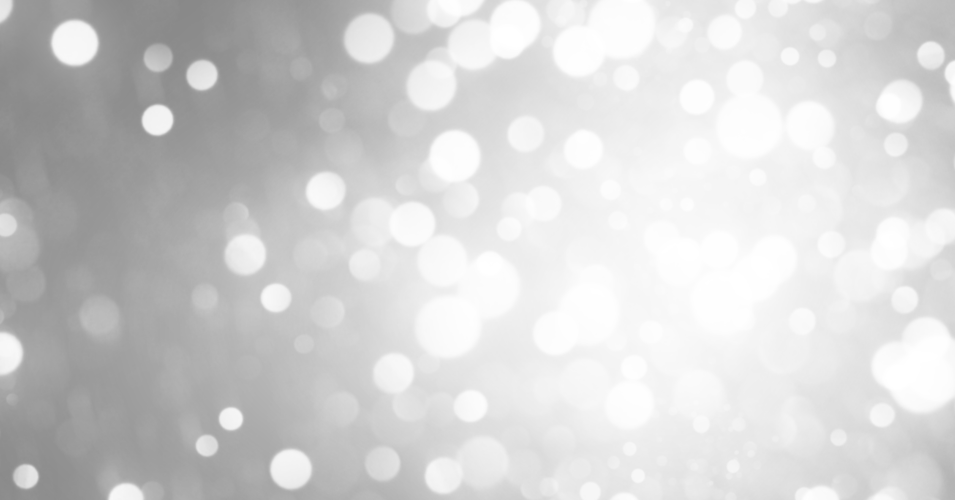
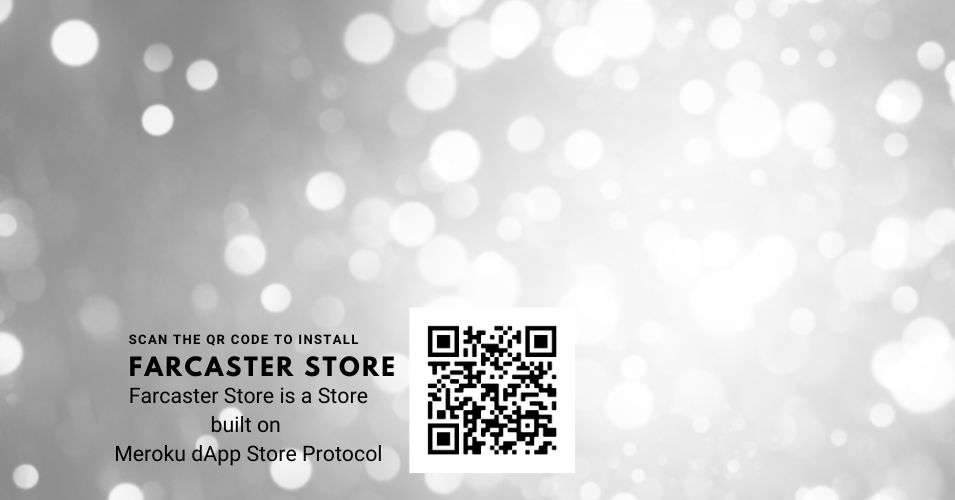
Update to bg image

diff --git a/app.py b/app.py
@@ -126,17 +126,18 @@ def frame_image(app_id):
 
   app_name = ImageComponent(
     ImageComponent.TEXT,
-    position=(120, 0),
+    position=(120, 80),
     text=_app['name'],
-    font_size=40,
-    font_color=(128, 128, 128)
+    font_size=42,
+    font_color=(140, 82, 255)
   )
   image_stack.append(app_name)
 
+  _text = f"{_app['description']}"
   description = ImageComponent(
     ImageComponent.TEXT,
     position=(0, 200),
-    text=_app['description'],
+    text=_text,
     font_size=30,
     font_color=(0, 0, 0)
   )
